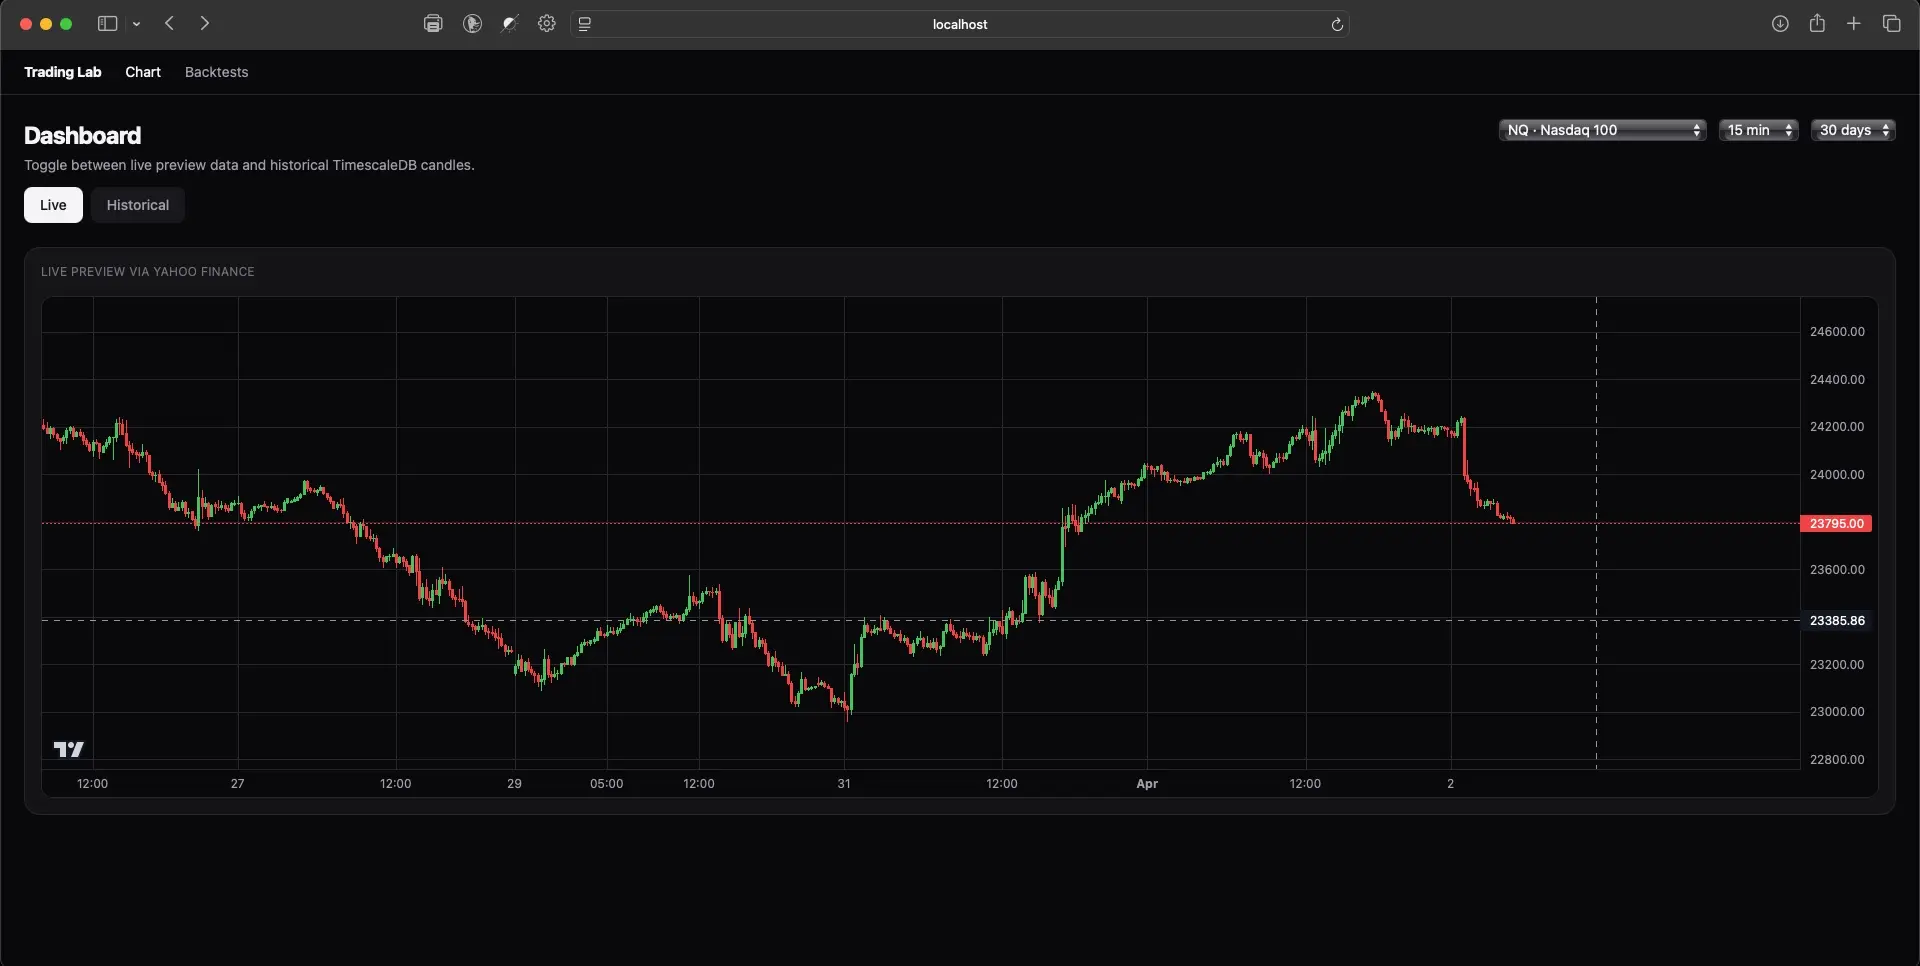
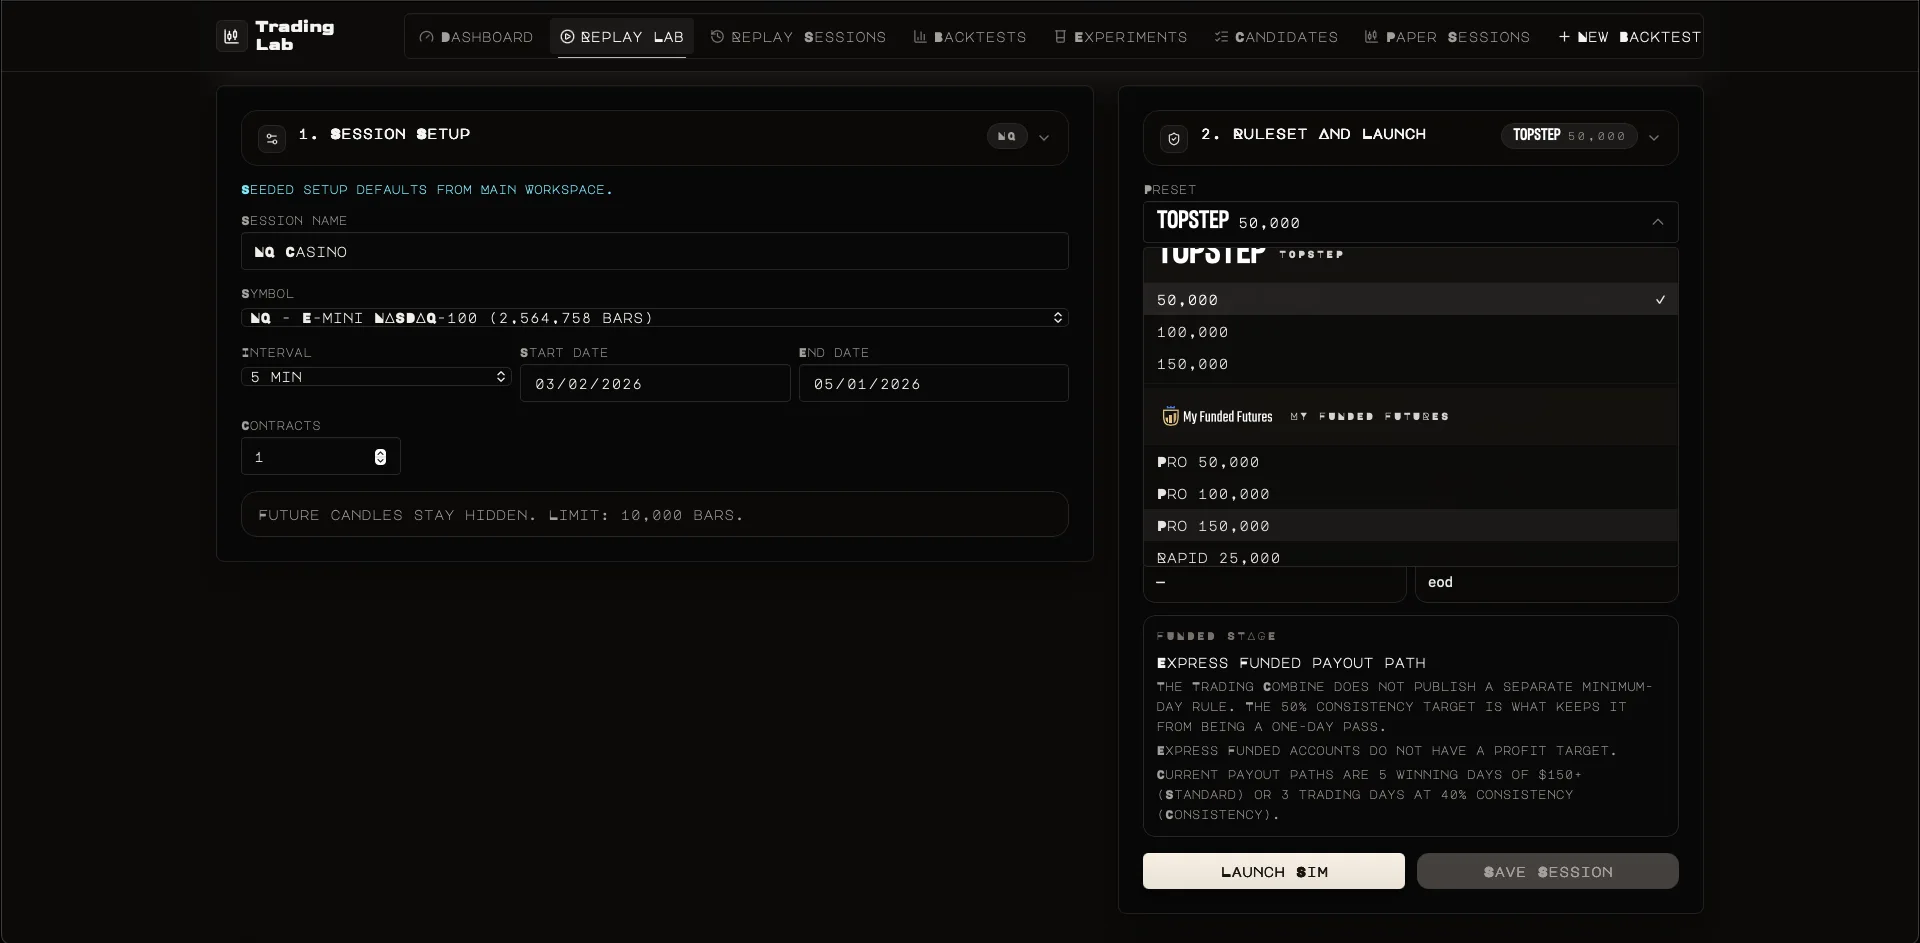
Refresh Trading Lab screenshots and alt text

diff --git a/index.html b/index.html
@@ -206,9 +206,9 @@
                     </div>
                     <div class="project-images trading-platform" data-project="trading-lab">
                         <div class="image-slider">
-                            <img src="images/TradingLab_1.webp" class="project-image active" alt="Trading Lab dashboard with live futures chart">
-                            <img src="images/TradingLab_2.webp" class="project-image" alt="Trading Lab historical futures chart view">
-                            <img src="images/TradingLab_3.webp" class="project-image" alt="Trading Lab backtest configuration flow">
+                            <img src="images/TradingLab_1.webp" class="project-image active" alt="Trading Lab session setup and prop firm ruleset launch flow">
+                            <img src="images/TradingLab_2.webp" class="project-image" alt="Trading Lab replay session with live trade controls and chart overlays">
+                            <img src="images/TradingLab_3.webp" class="project-image" alt="Trading Lab backtest calendar with daily P and L and drawdown tracking">
                         </div>
                         <div class="slider-controls">
                             <button class="slider-button prev">❮</button>
